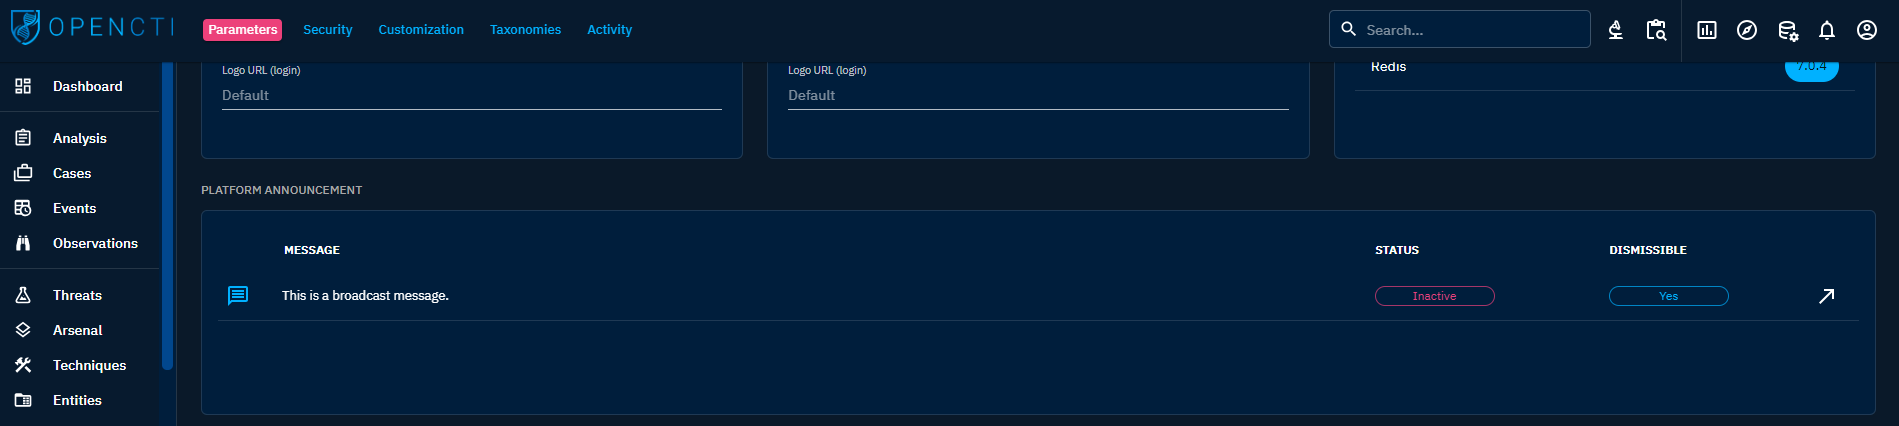
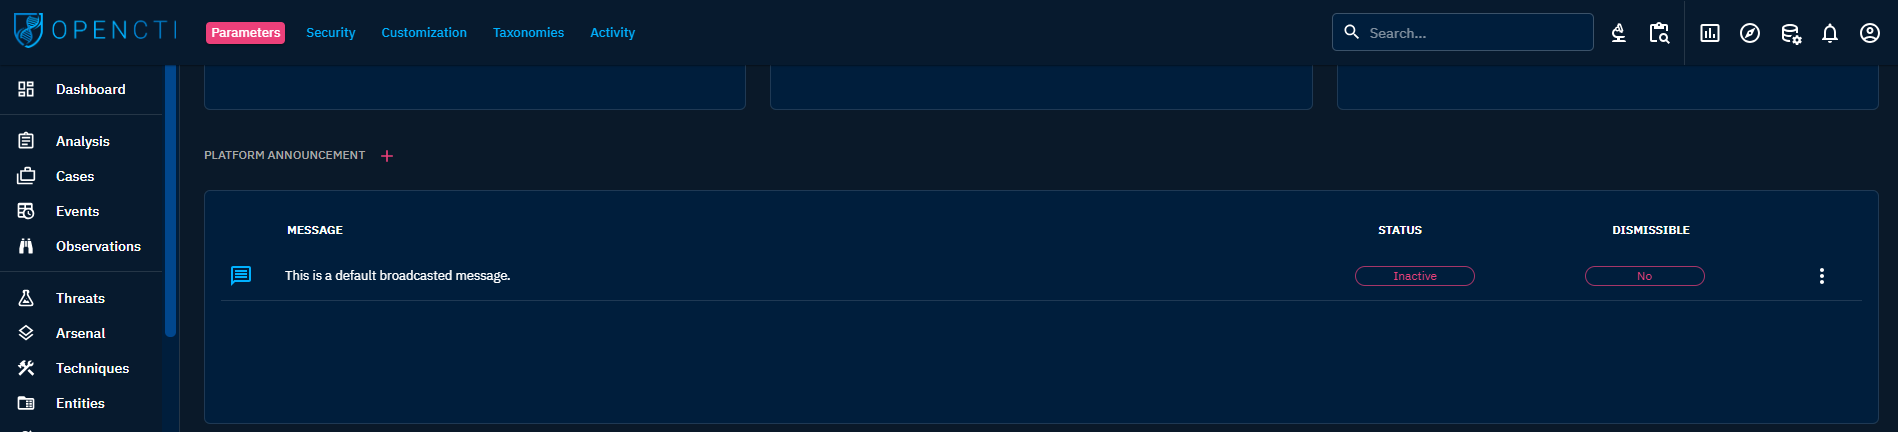
[docs] Add platform announcement documentation

diff --git a/docs/administration/parameters.md b/docs/administration/parameters.md
@@ -2,11 +2,19 @@
 
 ## Platform Announcement
 
-This section gives you the possibility to display a broadcast message as a platform header.
+This section gives you the possibility to display broadcast messages as a platform header.
 
 ![Broadcast message configuration](assets/broadcast_message_configuration.png)
 
-The message can be accompanied by a “Dismiss” button. When click by a user, it make disappear the message
-for this user. This option can be deactivated to have a permanent broadcast message.
+A message can be accompanied by a “Dismiss” button. When click by a user, it make disappear the message
+for this user.
 
-![Broadcast message display](assets/broadcast_message_display.png)
+![Broadcast message display dismissible](assets/broadcast_message_display_dismissible.png)
+
+This option can be deactivated to have a permanent broadcast message.
+
+![Broadcast message display not dismissible](assets/broadcast_message_display_notdismissible.png)
+
+
+⚠ We can have one broadcast message displayed in the header. The dismissable messages are showed in first, then the
+latest no dismissible message.
